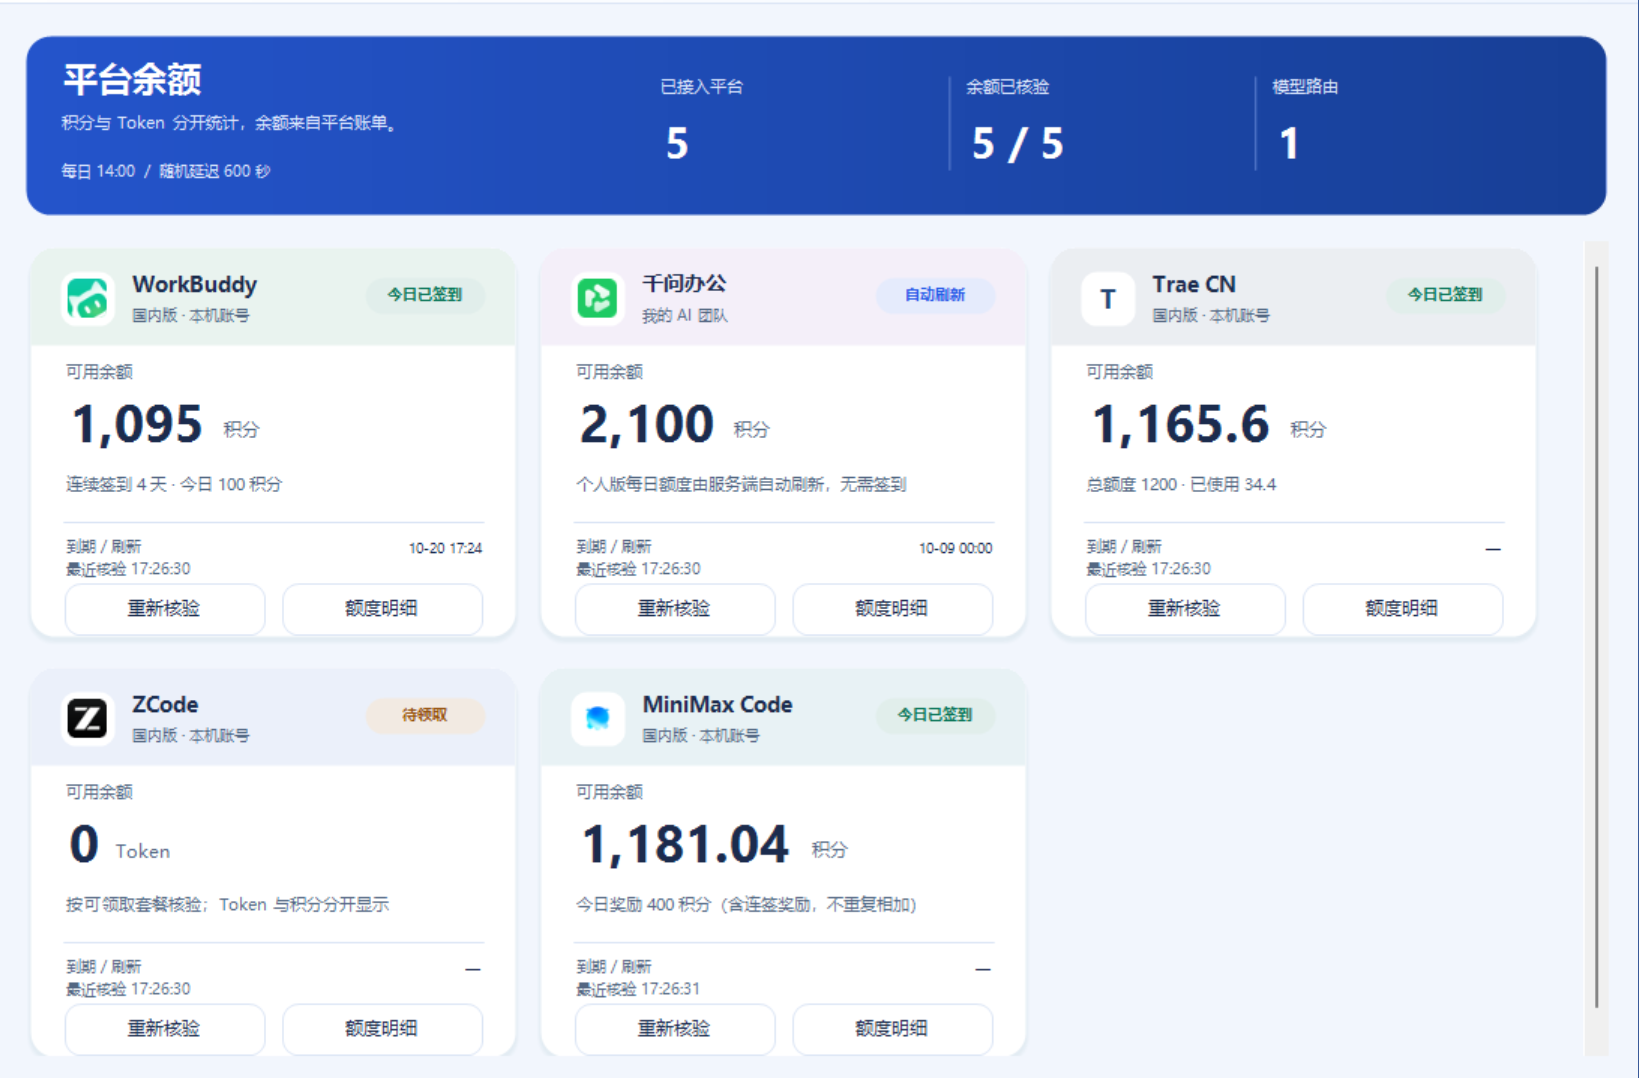
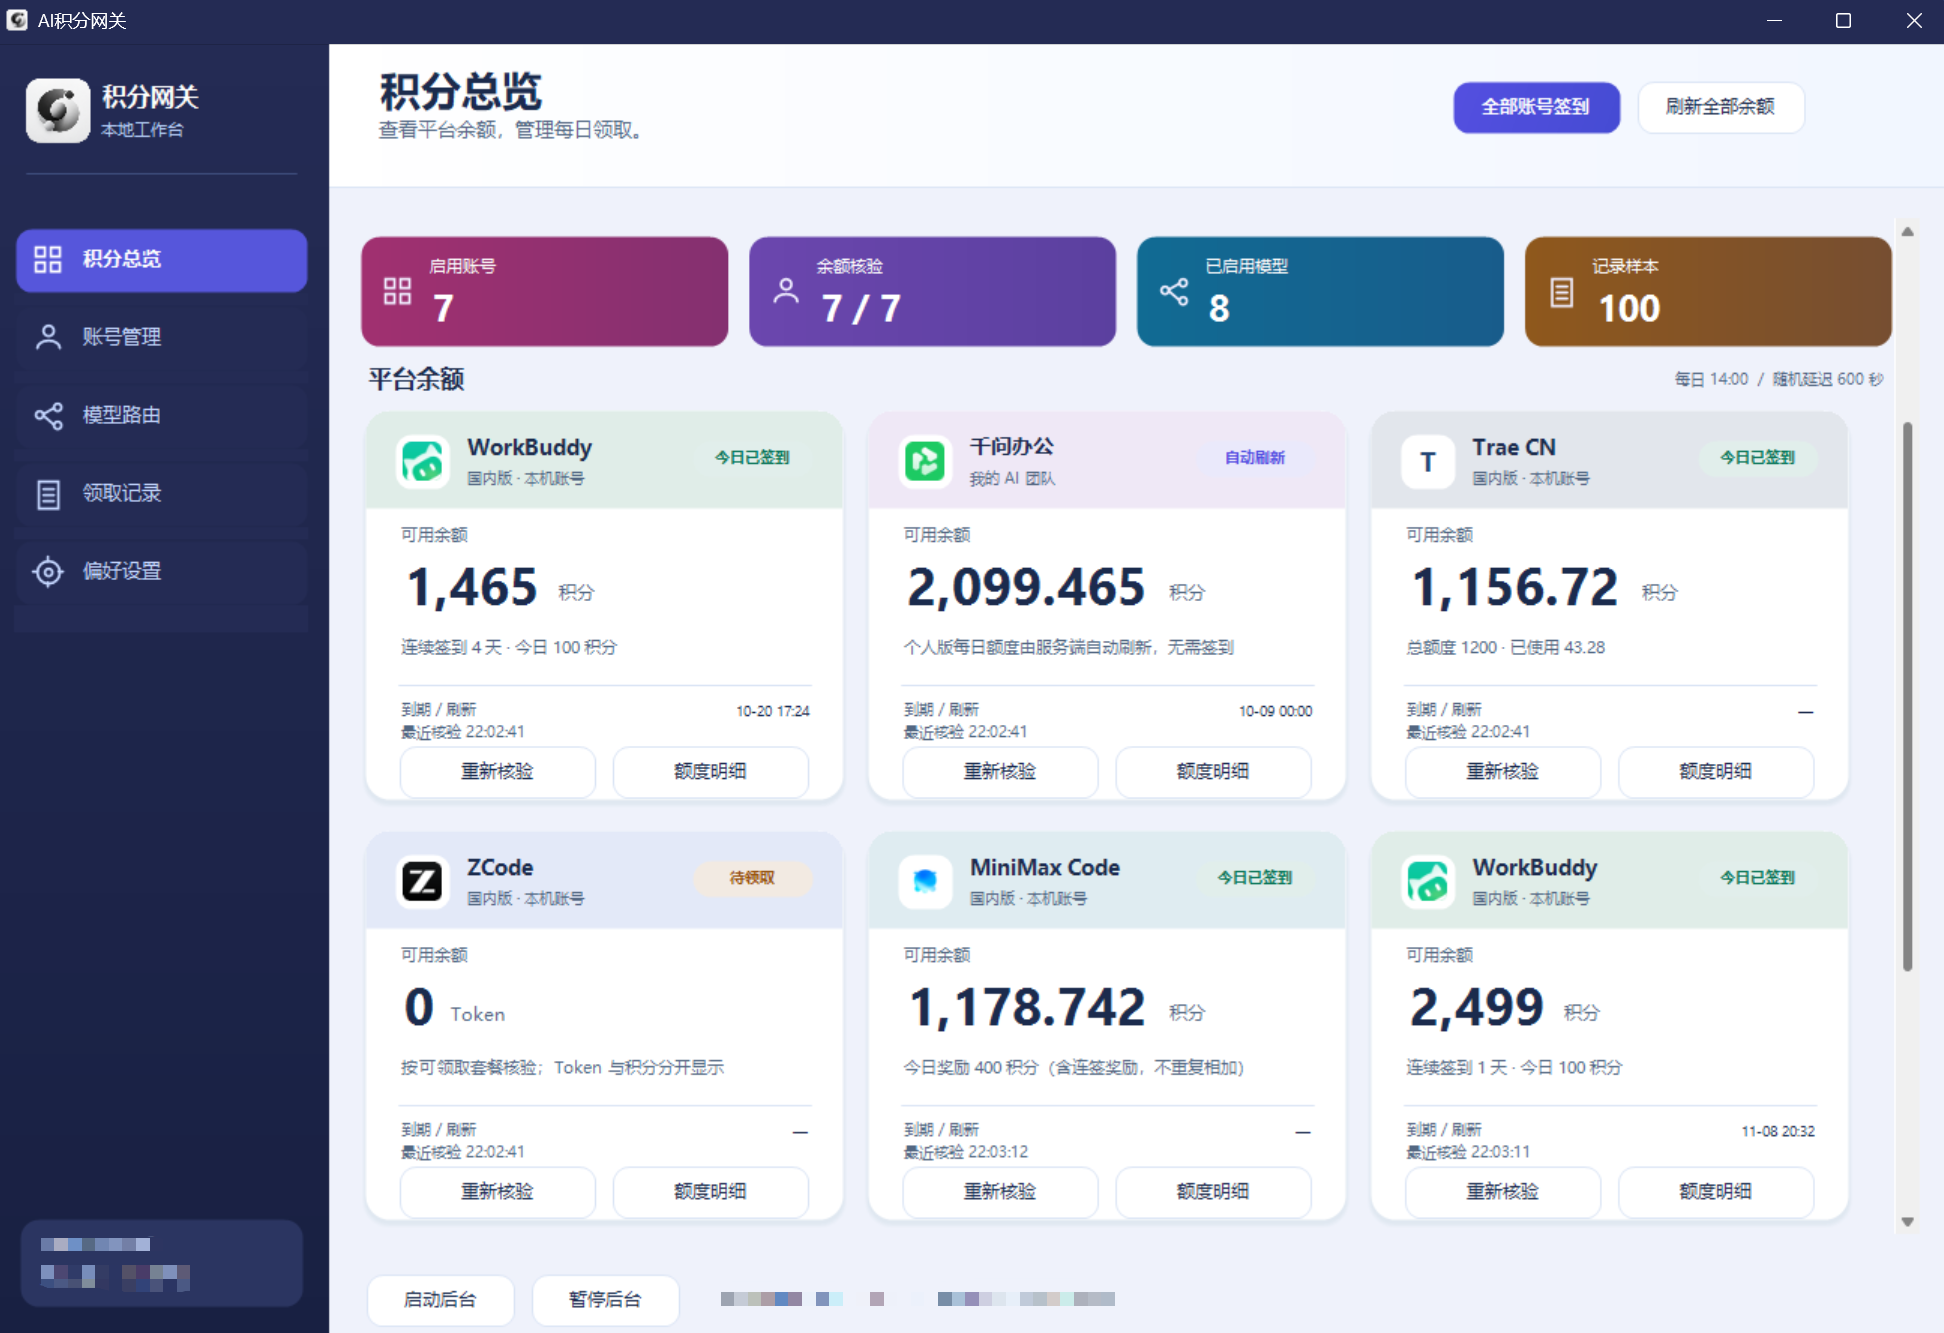
fix: long DSH conversations and scoped imported model checks; add BigModel adapter

diff --git a/README.md b/README.md
@@ -2,7 +2,7 @@
 
 <p align="center">
   <b>把多平台每日权益、账号余额和模型调用收拢到一个本地网关</b><br>
-  WorkBuddy · Trae CN · 千问办公 · MiniMax Code · ZCode<br>
+  WorkBuddy · Trae CN · 千问办公 · MiniMax Code · ZCode · 智谱 BigModel<br>
   多账号签到 · 积分耗尽切号 · OpenAI 兼容 API · SSE · 工具调用 · DSH bundle
 </p>
 
@@ -17,9 +17,16 @@
 
 ## 界面展示
 
-![本机原生桌面的五平台余额总览](docs/images/platform-balances.png)
+![AI积分网关：多账号余额、签到与已启用模型总览](docs/images/platform-balances.png)
 
-*用户提供的本机界面截图。积分和 Token 分开显示，余额、签到状态、核验时间分别来自平台回执。图中的余额、每日 14:00 设置、5 个账号和 1 条模型路由是截图时的个人配置，不是新部署默认值或额度承诺。ZCode 卡片的“待领取 / 0 Token”是当时状态，不表示领取已经成功。此图只用于展示，不附带前端实现。*
+*用户提供的最新本机界面原图。图中的 7 个启用账号、8 条已启用模型、每日 14:00 设置及余额是截图时的个人配置，不是新部署默认值或额度承诺。WorkBuddy 多账号分别展示；积分、Token、现金与资源包保持各自单位。ZCode 的“待领取 / 0 Token”仅代表截图时状态。此图只用于展示，不附带前端实现。*
+
+### 2026-10-09 更新
+
+- **长会话 413 修复**：新配置的聊天请求体上限为 64 MiB；公共模型 API 和 DSH 私有 worker 一致读取当前配置。按 UTF-8 字节计数，保留完整消息及工具历史，不静默裁剪。
+- **刷新已导入模型 = 刷新目录 + 真实体检**：管理接口支持 `scope: "imported"`，仅测试启用路由的实际目标，四阶段结果独立记录；其他模型的历史结果保留。
+- **智谱官方接入**：API Key 用于官方模型调用及现金查询，控制台登录态用于资源包明细；这是平台官方适配器，不是第三方中转站。
+- **103 + 2 项回归**：当前共 105 项测试，新增长历史、分块上传、限制热更新、限定模型体检、队列去重及官方智谱适配覆盖。
 
 ## 目录
 
@@ -70,7 +77,7 @@
 | DSH 插件 | bundle 注册 provider，经独立 Node worker 和随机端口 loopback shim 接入 |
 | 自建前端 | 模型 API 与管理 API 分离，前端可采用 React、Vue、原生桌面或其他方案 |
 
-第三方 API 中转站功能已移除；本仓库只配置这五类平台上游。活动任务不作为默认全自动功能，只有已实现的任务适配器才能执行。
+第三方 API 中转站功能已移除；本仓库配置五类客户端平台及智谱官方 API 上游，不接受任意中转站 URL。活动任务不作为默认全自动功能，只有已实现的任务适配器才能执行。
 
 ## 平台支持与权益口径
 
@@ -82,6 +89,7 @@
 | 千问办公 QwenWork | 桌面个人版，切到“我的 AI 团队” | 每日额度由服务端自动重置，本项目查询核验 | 已实现模型协议适配；需本机编码器依赖，不是 Qwen Code CLI 或通义网页版 |
 | MiniMax Code | 桌面登录态及原生 OAuth lease，或平台专用文件凭据 | 每日签到、奖励与余额查询 | 原生模型协议适配；与 MiniMax Agent 网页账号不是同一实现 |
 | ZCode | 桌面登录态及设备上下文 | 免费套餐领取 / 查询；人工验证返回 `action_required` | 已实现模型适配；遇验证先在官方窗口完成，再重试 |
+| 智谱 BigModel | 官方 API Key；资源包查询另需控制台登录态 | 查询现金余额、各资源包可用量与到期日；不执行签到 | 官方聊天 API；套餐按适用模型抵扣，Token / 次 / CNY 不合计 |
 
 **适配器存在 ≠ 当前账号的所有模型都可用。** 上游权限、产品通道、套餐、地区、模型下线和验证状态都会影响结果。以自己的模型体检和实际调用回执为准，不发布固定的“全部平台全部模型永久可用”清单。
 
@@ -455,7 +463,30 @@ curl -N http://127.0.0.1:19421/v1/chat/completions \
 | POST | `/admin/workbuddy/switch` | 手动选择下一请求账号 |
 | POST | `/admin/shutdown` | 停止独立后台 |
 
-当前体检实现使用 **`/admin/model-tests`**；以 `src/server.mjs` 为接口事实源。管理契约还有 [docs/api.md](docs/api.md)，如旧文档名称与源码不同，按实现核对。
+当前体检实现使用 **`/admin/model-tests`**；以 `src/server.mjs` 为接口事实源。管理契约详见 [docs/api.md](docs/api.md)。
+
+### 刷新并测试已导入模型
+
+```powershell
+$keys = Get-Content ./data/api-keys.json -Raw | ConvertFrom-Json
+$admin = @{ Authorization = "Bearer $($keys.adminKey)" }
+Invoke-RestMethod 'http://127.0.0.1:19421/admin/model-tests' -Method Post `
+  -Headers $admin -ContentType 'application/json' -Body '{"scope":"imported"}'
+# POST 返回 202 后在后台运行，不等于测试已经通过。
+Invoke-RestMethod 'http://127.0.0.1:19421/admin/model-tests' -Headers $admin
+```
+
+`scope` 默认为 `all`；`imported` 从已启用路由提取实际目标，包含备用目标和 WorkBuddy 账号池成员，同一上游同一模型只测试一次。刷新相关上游目录后，依次测试普通文本、完整 SSE、结构化工具调用、工具结果回传。缺失模型不替换成别的模型，目录失败保留原目标并给出原因。
+
+本轮涉及的模型立即标为 `running`，不拿旧的通过结果当新结果；不涉及的历史记录及 `finishedAt` 保留。读取 `scope / status / completed / total / summary / results / jobKeys` 展示本轮状态，`results` 可含历史条目，因此不要用其总长度计算本轮进度。同范围重复请求复用当前任务；不同范围通过 `queuedScope` 表示排队，当前任务结束后自动开始，不并发创建重复体检。
+
+`passed` 表示四项通过；`partial` 表示聊天通过但工具链未全部通过；`uncertain` 表示超时等待复测；`unavailable` 表示当前目录或通道不提供；错误和时间戳应展示在自建 UI。体检会实际消耗平台额度，不改变导入选择或账号池偏好。
+
+### 智谱官方模型与资源包
+
+完整配置例子与字段说明见 [docs/bigmodel.md](docs/bigmodel.md)。官方 API Key 和控制台登录态存入账号专属的本机文件，不填写到管理配置里。API Key 可调用模型；资源包列表需要控制台登录态，二者用途分开。
+
+资源包适用模型、单位、状态及到期日以控制台返回为准。GLM 文本/图片输入适配不等于已支持图像生成、视频生成或搜索任务。响应成功也不直接证明某个特定资源包已抵扣，需比较平台账单和余额更新时间。
 
 做 UI 时应保留结果与错误原因：HTTP 200 不等于权益发放成功；每项 `status / reason / credits` 才是结果。请求结束在 `finally` 释放忙碌状态，不让“正在处理”永久占据界面。余额读取失败展示缓存时间与失败原因，不把缺数据显示为零。
 
@@ -482,6 +513,17 @@ data/                     运行数据（不入Git）
 以你的 `dataDir` 为实际位置。仓库不包含运行 key、Cookie、token、账号快照、账本数据库、个人配置、客户端 exe 或 WASM；界面展示 PNG 是文档资产，不是前端程序。
 
 ## 常见问题
+
+<details>
+<summary><b>同一模型新会话正常，老会话报 413 / body_too_large？</b></summary>
+
+先区分字节限制与模型上下文限制：老会话携带的历史消息、工具定义、工具结果或图片会增加 HTTP 请求体。旧配置的 4 MiB 上限可在请求到达模型前返回 413，新会话较短则成功，这不是模型突然下线。
+
+新部署 `server.bodyLimitBytes` 默认 `67108864`（64 MiB）。旧部署请在本机配置中调整该字段；允许范围是 1024–67108864 的整数字节。管理请求仍维持 4 MiB，不同步扩大。已加载旧程序代码需一次正常重启网关/DSH 插件进程；使用新代码后该限制按请求读取，DSH worker 每 30 秒载入配置变化。
+
+网关不静默删除历史。超过新的字节上限仍返回 413，错误包含当前字节数及上限；如果上游另报 context length / token limit，应由 DSH 的上下文压缩机制处理，这是另一层限制。增大传输上限不会增大模型实际上下文窗口。
+
+</details>
 
 <details>
 <summary><b>为什么打开首页没有管理面板？截图里的 UI 怎么安装？</b></summary>
@@ -546,7 +588,7 @@ npm ci
 npm run check
 ```
 
-当前回归集包含 **86 项测试**，覆盖普通 / SSE / 工具调用、工具结果回传、跨进程幂等、账号池、手动切换竞争、临时拒绝恢复与余额查询超时。多账号切换部分使用模拟上游，不能由此推断每个真实账号 / 地区 / 模型已经通过。真实验证由部署者用自己的登录态执行并记录。
+当前回归集包含 **105 项测试**，覆盖普通 / SSE / 工具调用、工具结果回传、跨进程幂等、账号池、手动切换竞争、临时拒绝恢复、余额查询超时、官方智谱适配、超过 4 MiB 的完整历史和已导入模型限定体检。离线回归使用模拟上游，不能由此推断每个真实账号 / 地区 / 模型已经通过。真实验证由部署者用自己的登录态执行并记录。
 
 反馈问题时提供平台、客户端版本、路由 ID、错误码、普通或流式、工具调用阶段及去除秘密的日志。不要提交 token、Cookie、运行密钥、账号快照或个人数据库。
 

diff --git a/docs/bigmodel.md b/docs/bigmodel.md
@@ -1,0 +1,50 @@
+# 智谱 BigModel 官方接入
+
+这是官方平台适配器，不是任意第三方中转站。固定使用 `https://open.bigmodel.cn/api/paas/v4` 聊天 API 与该平台的余额接口。
+
+## 1. 账号隔离凭据
+
+在本机新建 `accounts/bigmodel-main/credentials.json`，按实际账号填写并保留在本机：
+
+```json
+{"apiKey":"","consoleAuthorization":"","consoleCookie":""}
+```
+
+`apiKey` 用于模型调用和现金余额；`consoleAuthorization` 或 `consoleCookie` 用于资源包列表。只调用模型时不需要控制台字段；控制台凭据过期会给出单独错误，不把资源包查询失败冒充为现金或模型调用失败。
+
+## 2. 管理配置
+
+将以下项目合并到对应数组，保留原配置及其他账号：
+
+```json
+{
+  "accounts": [{
+    "id": "bigmodel-main", "platform": "bigmodel", "enabled": true,
+    "label": "智谱官方",
+    "credentials": {"kind": "file", "file": "./accounts/bigmodel-main/credentials.json"},
+    "tasks": []
+  }],
+  "upstreams": [{"id": "bigmodel-official", "kind": "bigmodel", "accountId": "bigmodel-main", "enabled": true}],
+  "routes": [{
+    "id": "bigmodel-official/glm-4.7", "enabled": true,
+    "targets": [{"upstreamId": "bigmodel-official", "model": "glm-4.7"}]
+  }]
+}
+```
+
+文件路径相对管理配置文件解析。读取实时目录后由用户决定导入，不默认导入整个目录；模型名称可能变化。`glm-4.6v` 是实测可调用后补入的目录条目，是否继续适用以账号实时体检为准。
+
+## 3. 使用与显示
+
+- 通过 `/admin/health` 查询账号，通过 `/admin/balances` 展示现金（CNY）和 `parts` 中的资源包。
+- 每个资源包独立显示 `name / value / total / unit / scope / status / expiresAt`。Token、次和现金不相加。
+- 资源包按平台定义的模型及场景扣减；网页列表并不保证所有包能用于每个模型。
+- 默认适配普通、流式与结构化工具链，以及目录声明的图片输入。图像生成、视频生成、搜索等服务未映射到聊天 API。
+- 只映射平台确认的思考开关，不虚构 low/medium/high/max 档位。
+- `/admin/model-tests` 的 `scope: "imported"` 可主动验证已启用路由；每次结果包含时间和具体失败阶段。
+
+## 4. 成功和扣减分开验证
+
+四项测试通过证明该模型当次链路可用，不自动证明某个指定赠送包已抵扣。资源包更新存在时间差，核对适用场景及官方账单再判断。体检调用自身也会产生真实用量。
+
+参考：[智谱官方 OpenAI SDK 兼容说明](https://docs.bigmodel.cn/cn/guide/develop/openai/introduction)。实现文件为 `src/bigmodel.mjs`；凭据、账单和用户会话不随仓库分发。

diff --git a/docs/api.md b/docs/api.md
@@ -4,10 +4,13 @@
 GET /health；GET /v1/models；POST /v1/chat/completions。
 GET /admin/config、PUT /admin/config（完整配置，无内联凭据）；GET /admin/balances?refresh=1；GET /admin/records。
 POST /admin/claim {} 全部账号，或 {accountId,taskId} 单账号；响应每项有 status/reason/credits，别只按 HTTP200判断领取成功。
-GET /admin/model-directory；POST /admin/model-import {items:[{upstreamId,model,enabled}]}；GET /admin/model-audit；POST /admin/model-audit。
+GET /admin/model-directory；POST /admin/model-import {items:[{upstreamId,model,enabled}]}；GET /admin/model-tests；POST /admin/model-tests {scope:"all"|"imported"}。
+scope 默认 all；imported 刷新启用路由目标的目录并执行普通、流式、工具、结果回传测试。返回 202 后轮询 GET，读取 scope/status/completed/total/summary，results 包括保留的历史条目，jobKeys 指明本轮目标。不得将 HTTP202 视为体检成功。不同范围运行时 queuedScope 表示排队，重复同范围复用任务；不改用户路由配置。
 POST /admin/workbuddy/capture {id,label}：读当前客户端账号，返回账号 ID 和本机文件路径，不返回凭据。
 POST /admin/workbuddy/pool {routeId,accountIds:["wb-a","wb-b"],enabled:true,cooldownSeconds:3600}。
 GET /admin/workbuddy/pools；POST /admin/workbuddy/switch {routeId,accountId}。
 POST /admin/shutdown：停止本机服务。
 
 前端应有完成/失败状态，finally释放忙碌标记；余额错误显示stale和原因，不把未知余额显示成零。工具调用只返回定义/参数，由调用方执行工具。
+
+聊天请求体默认64 MiB（server.bodyLimitBytes=67108864），管理请求4 MiB；严格按字节计数，超限返回413/body_too_large，保留历史不自动剪裁。新代码逐请求读取限制；DSH worker每30秒重新读取配置。

diff --git a/THIRD_PARTY_NOTICES.md b/THIRD_PARTY_NOTICES.md
@@ -49,3 +49,7 @@ linguo2625469/workbuddy2api-panel，MIT，commit d66384d9e3d69655f799d7d8f2e5fba
 ## 公共源码包
 不包含原生/Web前端、客户端程序、WASM、凭据、数据库或会话档案。千问协议助手 vendor/qwenwork_ref 参考 wicm84266964/Buddy2api（MIT），完整许可证在该目录；编码器边界/UTF-8和上游映射由本网关实现。Galaxy/HTMLrev 仅作为本机桌面设计参考，公共包未分发其UI。
 
+## 智谱官方适配（2026-10-09）
+
+智谱 BigModel 官方 OpenAI 兼容文档用于核对模型调用契约；官方控制台的实际响应用于核对资源包字段。本工程独立实现 `src/bigmodel.mjs`，不复制或分发产品客户端/控制台源码。另参考 hucuyuu/zhipu-balance（MIT）的现金余额查询端点线索，未复制其程序；此处与原有参考项目一并致谢。README 展示图为用户提供的本机截图，不包含前端实现。
+
